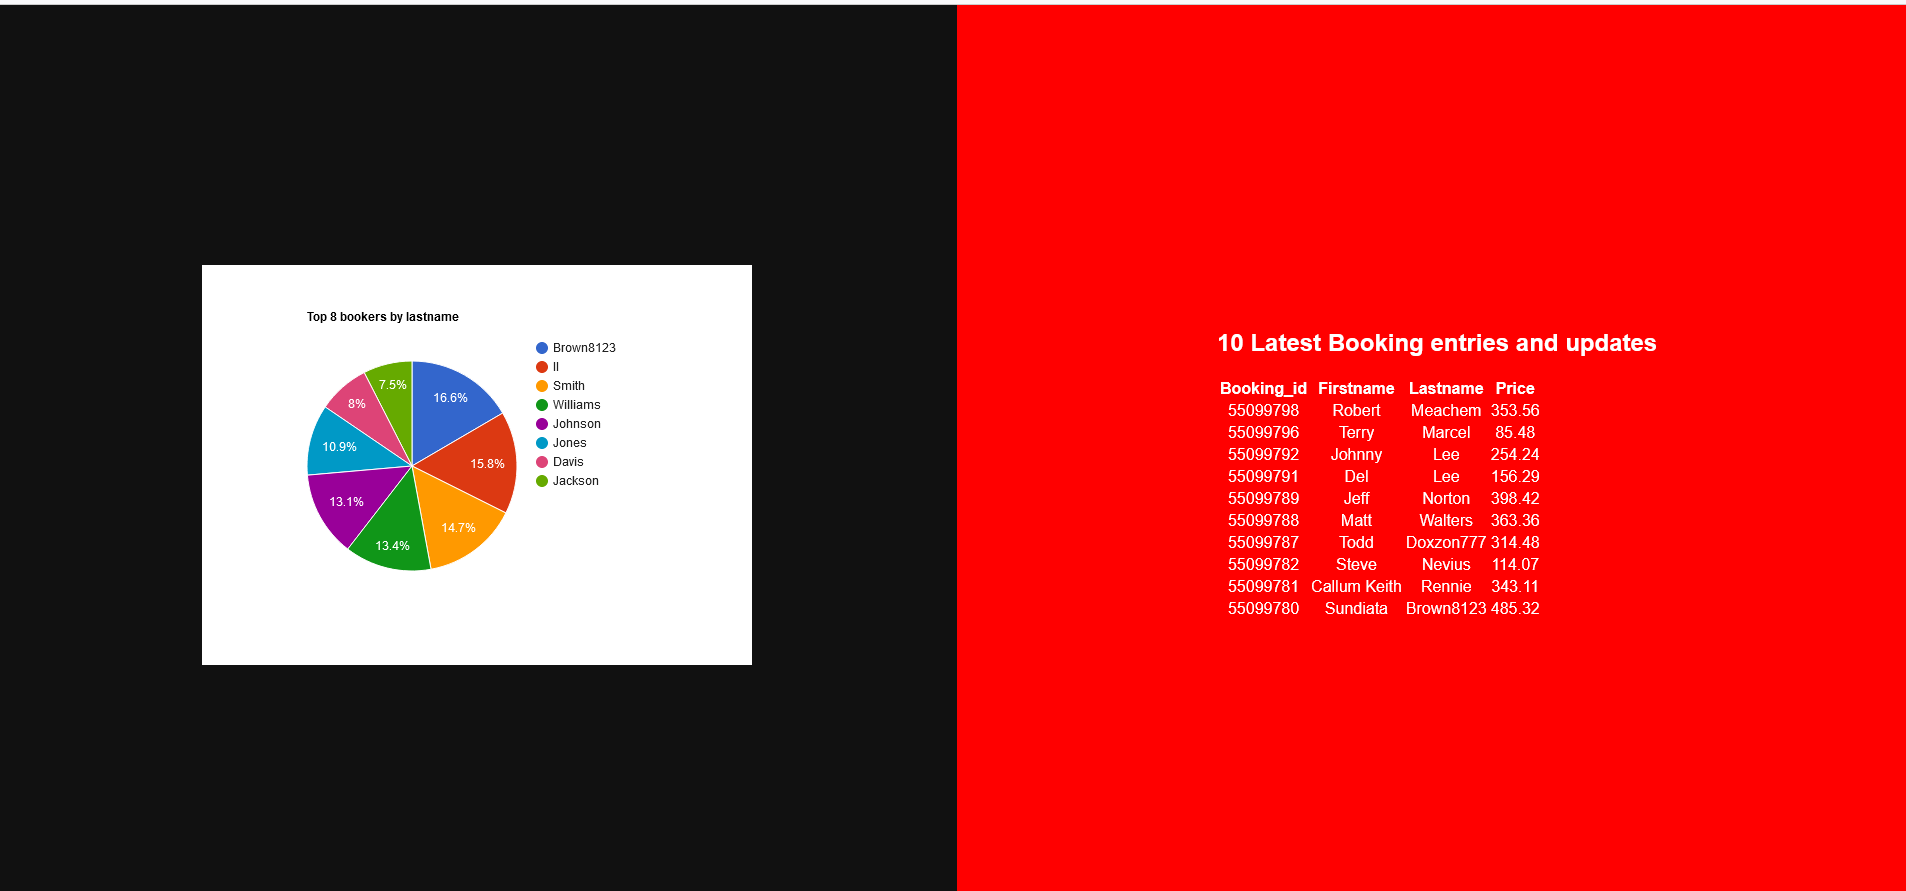
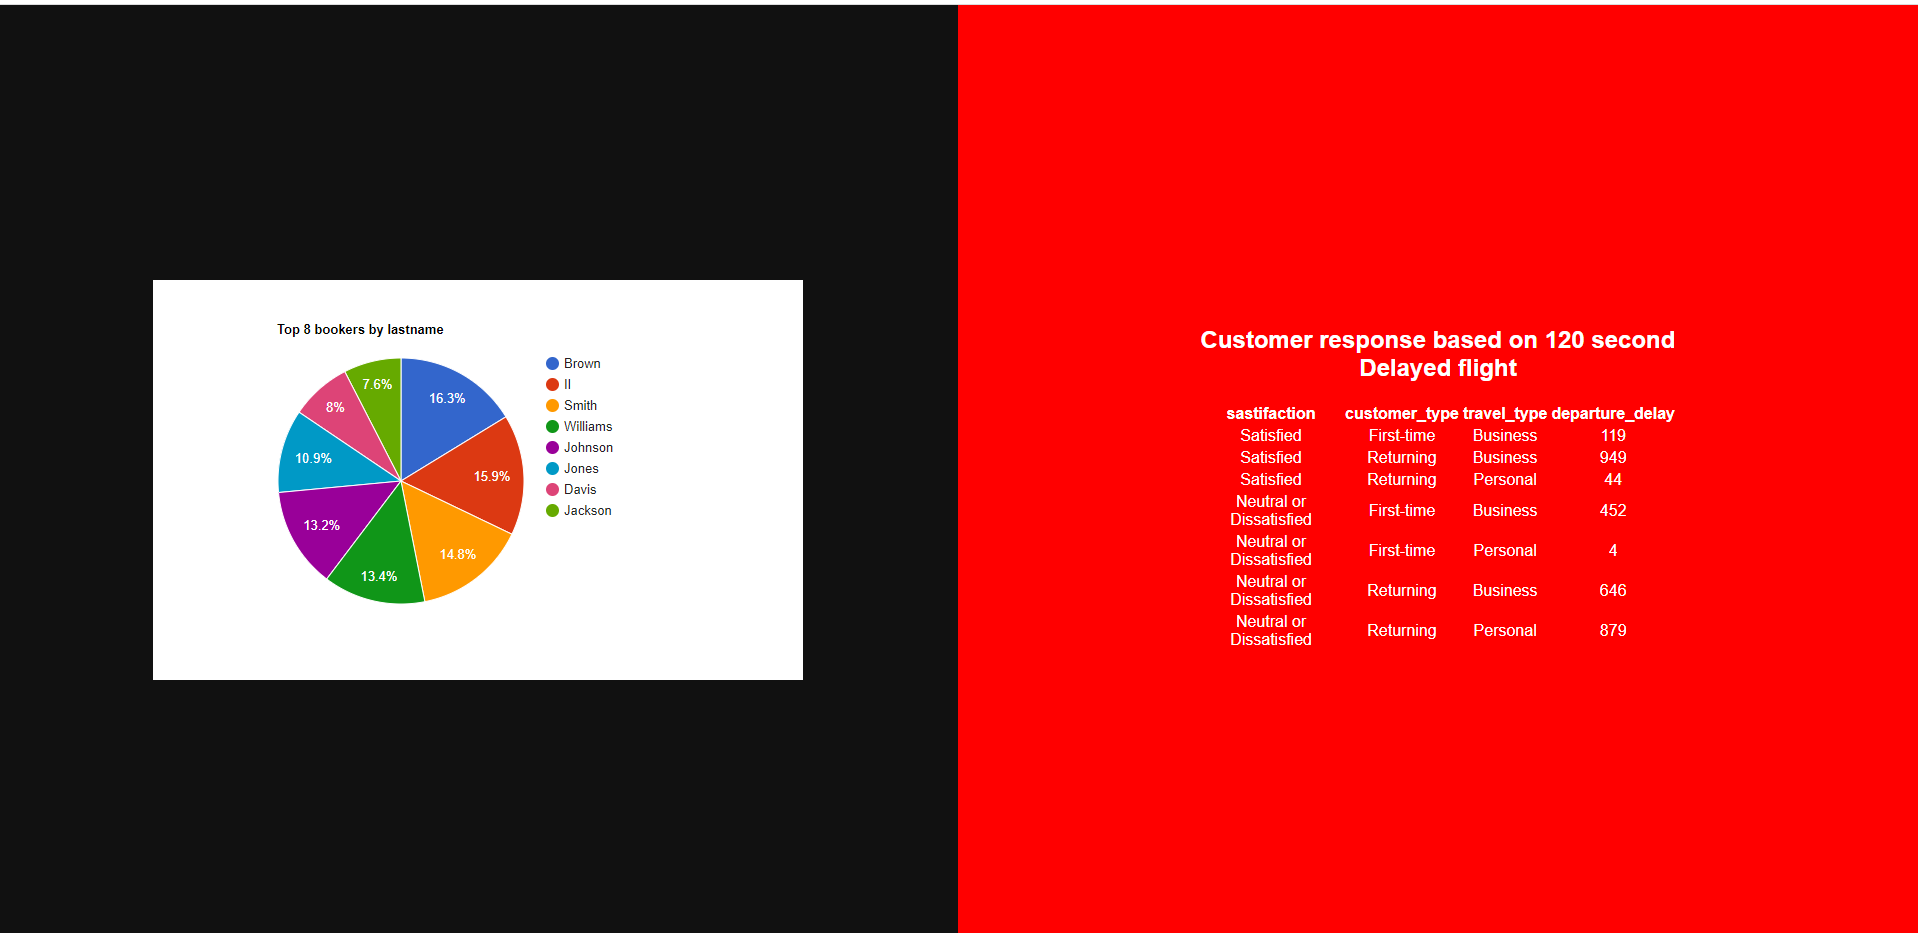
Fixed dbchart app to handle Lakehouse Data
Fixed dbchart app to handle Lakehouse Data

diff --git a/create-lamp/files/dbchart.php b/create-lamp/files/dbchart.php
@@ -1,5 +1,5 @@
 <?php
- $con = mysqli_connect('30.0...','admin','Welcome#123','airportdb');
+ $con = mysqli_connect('localhost','admin','Welcome#123','airportdb');
 ?>
 <!DOCTYPE html>
 <html lang="en-US">
@@ -83,7 +83,7 @@ function drawChart() {
 
   // Optional; add a title and set the width and height of the chart
   var options = {'title':'Top 8 bookers by lastname', 
-                'width':550, 'height':400};
+                'width':650, 'height':400};
 
   // Display the chart inside the <div> element with id="piechart"
   var chart = new google.visualization.PieChart(document.getElementById('piechart'));
@@ -96,30 +96,30 @@ function drawChart() {
 <div class="centered">
 <?php
 
-$link = mysqli_connect('30.0...','admin','Welcome#123','airportdb');
+$link = mysqli_connect('localhost','admin','Welcome#123','airportdb');
 #require_once "config_2.php";
-$query = "SELECT booking_id, firstname,lastname, price FROM passenger, booking
- WHERE booking.passenger_id = passenger.passenger_id
- ORDER by booking_id desc LIMIT 10;";
+$query = "SELECT sastifaction,customer_type, travel_type, count(*) departure_delay
+FROM airportdb.passenger_survey where departure_delay > 120 group by customer_type,travel_type,sastifaction
+order by sastifaction desc,customer_type, travel_type;";
 if ($stmt = $link->prepare($query)) {
    $stmt->execute();
-   $stmt->bind_result($booking_id,$firstname,$lastname,$price);
-echo "<h2>10 Latest Booking entries and updates</h2>";
+   $stmt->bind_result($sastifaction,$customer_type, $travel_type,$departure_delay);
+echo "<h2>Customer response based on 120 second Delayed flight</h2>";
 
    echo "<table>";
     echo "<tr>";
-    echo "<th>Booking_id</th>";
-    echo "<th>Firstname</th>";
-    echo "<th>Lastname</th>";
-    echo "<th>Price</th>";
+    echo "<th>sastifaction</th>";
+    echo "<th>customer_type</th>";
+    echo "<th>travel_type</th>";
+    echo "<th>departure_delay</th>";
 echo "</tr>";
 
 while ($stmt->fetch()) {
     echo "<tr>";
-       echo "<td>" . $booking_id ."</td>";
-       echo "<td>" . $firstname ."</td>";
-       echo "<td>" . $lastname . "</td>";
-       echo "<td>" . $price . "</td>";
+       echo "<td>" . $sastifaction ."</td>";
+       echo "<td>" . $customer_type ."</td>";
+       echo "<td>" . $travel_type ."</td>";
+       echo "<td>" . $departure_delay ."</td>";
     echo "</tr>";
  }
 
@@ -128,5 +128,43 @@ $stmt->close();
 ?>
 </div>
 </div>
+<!-- Code injected by live-server -->
+<script>
+	// <![CDATA[  <-- For SVG support
+	if ('WebSocket' in window) {
+		(function () {
+			function refreshCSS() {
+				var sheets = [].slice.call(document.getElementsByTagName("link"));
+				var head = document.getElementsByTagName("head")[0];
+				for (var i = 0; i < sheets.length; ++i) {
+					var elem = sheets[i];
+					var parent = elem.parentElement || head;
+					parent.removeChild(elem);
+					var rel = elem.rel;
+					if (elem.href && typeof rel != "string" || rel.length == 0 || rel.toLowerCase() == "stylesheet") {
+						var url = elem.href.replace(/(&|\?)_cacheOverride=\d+/, '');
+						elem.href = url + (url.indexOf('?') >= 0 ? '&' : '?') + '_cacheOverride=' + (new Date().valueOf());
+					}
+					parent.appendChild(elem);
+				}
+			}
+			var protocol = window.location.protocol === 'http:' ? 'ws://' : 'wss://';
+			var address = protocol + window.location.host + window.location.pathname + '/ws';
+			var socket = new WebSocket(address);
+			socket.onmessage = function (msg) {
+				if (msg.data == 'reload') window.location.reload();
+				else if (msg.data == 'refreshcss') refreshCSS();
+			};
+			if (sessionStorage && !sessionStorage.getItem('IsThisFirstTime_Log_From_LiveServer')) {
+				console.log('Live reload enabled.');
+				sessionStorage.setItem('IsThisFirstTime_Log_From_LiveServer', true);
+			}
+		})();
+	}
+	else {
+		console.error('Upgrade your browser. This Browser is NOT supported WebSocket for Live-Reloading.');
+	}
+	// ]]>
+</script>
 </body>
 </html>

diff --git a/create-lamp/create-lamp.md b/create-lamp/create-lamp.md
@@ -477,35 +477,23 @@ if ($stmt = $link->prepare($query)) {
     <copy>cd /var/www/html</copy>
     ```
 
-2. Create application folder 
-
-    ```bash
-    <copy>sudo mkdir airportapp</copy>
-    ```
-
-3. Change to application folder 
-
-    ```bash
-    <copy>cd /var/www/html/airportapp</copy>
-    ```
-
-4. Download application code
+2. Download application code
 
     ```bash
     <copy> sudo wget https://objectstorage.us-ashburn-1.oraclecloud.com/p/UfqwN3uKxYZlixYZz6ARjJ2KiZBiTMAheJkNdDpjabz13XhoMDKg1CIZmuSMDTqX/n/idazzjlcjqzj/b/airportdb-bucket-10282022/o/airportapp_automl.zip</copy>
     ```
 
-5. unzip Application code
+3. unzip Application code
 
     ```bash
     <copy>sudo unzip airportapp_automl.zip</copy>
     ```
 
     ```bash
-    <copy>cd airportapp/airportapp</copy>
+    <copy>cd airportapp</copy>
     ```
 
-6. Replace the database IP in config.php file with your heatwave database IP and save the file.
+4. Replace the database IP in config.php file with your heatwave database IP and save the file.
 
     ```bash
     <copy>sudo nano config.php</copy>
